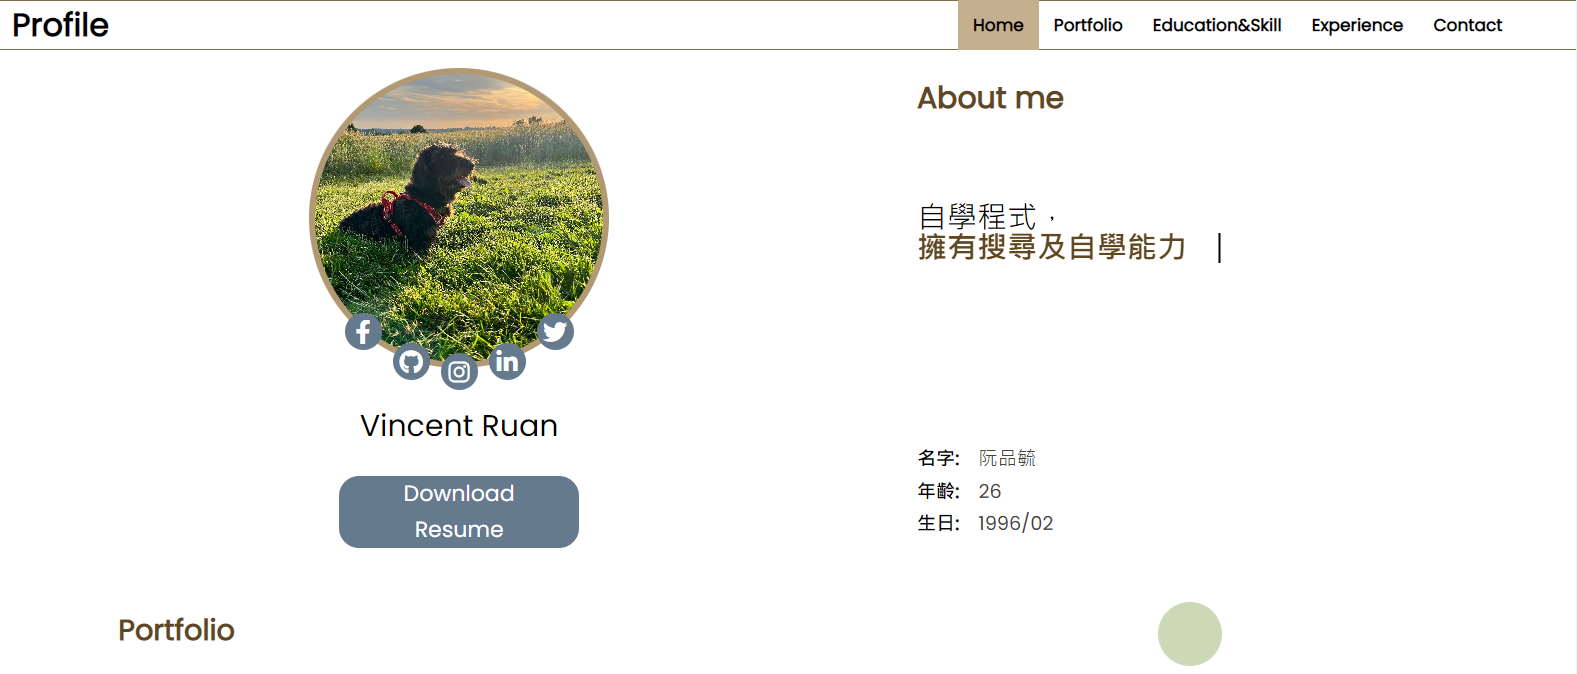
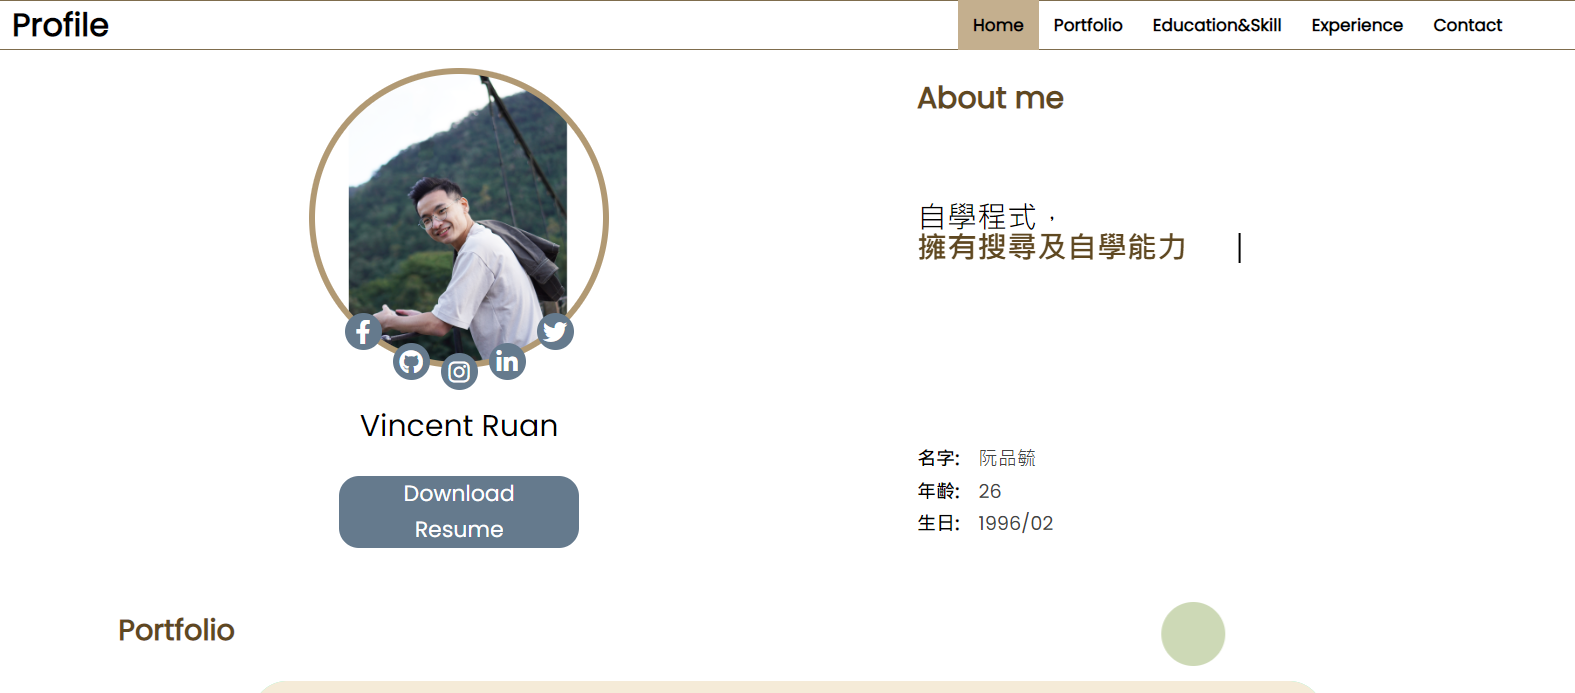
updating photos

diff --git a/src/components/Home/index.vue b/src/components/Home/index.vue
@@ -4,7 +4,7 @@
       <div class="intro-card">
         <div class="img">
           <div class="selfie">
-            <img src="../../assets/selfie.jpg" alt="selfie" />
+            <img src="../../assets/photoofme.png" alt="selfie" />
           </div>
           <ul class="link-icon">
             <li>

diff --git a/src/pages/PortfolioShow.vue b/src/pages/PortfolioShow.vue
@@ -55,6 +55,12 @@
       goBackBTN(){
         this.$router.go(-1)
       }
+    },
+    mounted(){
+      window.scrollTo({
+        top:0,
+        behavior: 'smooth'
+      })
     }
   }
 </script>
